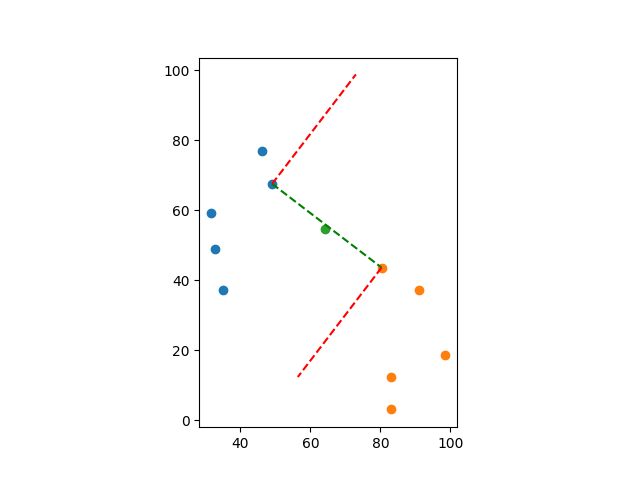
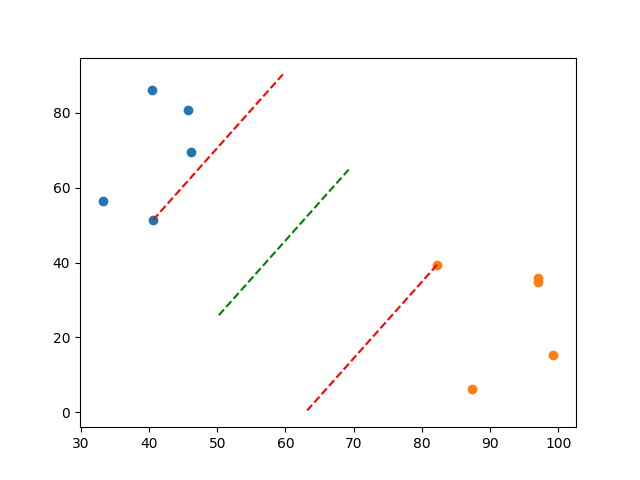
finally it works

diff --git a/_masters_/ml/svm/svmfromscratch.py b/_masters_/ml/svm/svmfromscratch.py
@@ -71,6 +71,8 @@ class Vector:
 class SVMFromScratch:
     def __init__(self):
         self.data = None
+        self.svm1, self.svm2 = None, None
+        self.border = None
 
     def fit(self, data: dict):
         distances = []
@@ -85,39 +87,48 @@ class SVMFromScratch:
         distances.sort(key=lambda it: it['dist'])
         closest_1, closest_2 = distances[0][CLAZZ_1], distances[0][CLAZZ_2]
         middle = find_middle_point(closest_1, closest_2)
-        middle_vect = Vector(closest_1, closest_2)
+        middle_vect1 = Vector(middle, closest_1)
+        middle_vect2 = Vector(middle, closest_2)
 
         svm1 = Vector(closest_1, closest_2)
         svm2 = Vector(closest_2, closest_1)
 
-        most_distant_support_vectors = {
+        # TODO replace with self.
+        most_distant_svms = {
             'vect1': None,
             'vect2': None,
-            'dist': -9999
+            'margin': -9999,
+            'border': (None, None)  # два вектора, образующие границу разделения между support-векторами
         }
 
-        step = 10
-        angle = 0
-        while angle < FULL_DEGREE:
-            angle += step
-            print(f'angle: {angle}')
+        step_degree = 10
+        angle_degree = 0
+        while angle_degree < FULL_DEGREE:
+            angle_degree += step_degree
+            print(f'angle: {angle_degree}')
 
-            svm1.rotate(step)
-            svm2.rotate(step)
-            curr_dist = Vector.dist_between_parallel(svm1, svm2)
-            print(f' dist: {curr_dist}')
+            svm1.rotate(step_degree)
+            svm2.rotate(step_degree)
+            middle_vect1.rotate(step_degree)
+            middle_vect2.rotate(step_degree)
 
-            c1_correct = SVMFromScratch.is_correctly_classified(svm1, data[CLAZZ_1])
-            c2_correct = SVMFromScratch.is_correctly_classified(svm2, data[CLAZZ_2])
-            print(f'c1: {c1_correct}, c2: {c2_correct}')
+            curr_margin = Vector.dist_between_parallel(svm1, svm2)
+            print(f'  dist: {curr_margin}')
 
-            if curr_dist > most_distant_support_vectors['dist'] \
-                    and SVMFromScratch.is_correctly_classified(svm1, data[CLAZZ_1]) \
-                    and SVMFromScratch.is_correctly_classified(svm2, data[CLAZZ_2]):
-                most_distant_support_vectors = {
+            class_1_correctly_classified = SVMFromScratch.is_correctly_classified(svm1, data[CLAZZ_1])
+            class_2_correctly_classified = SVMFromScratch.is_correctly_classified(svm2, data[CLAZZ_2])
+            print(f'  class 1 correct: {class_1_correctly_classified}')
+            print(f'  class 2 correct: {class_2_correctly_classified}')
+
+            # find maximal margin
+            if curr_margin > most_distant_svms['margin'] \
+                    and class_1_correctly_classified \
+                    and class_2_correctly_classified:
+                most_distant_svms = {
                     'vect1': deepcopy(svm1),
                     'vect2': deepcopy(svm2),
-                    'dist': curr_dist
+                    'margin': curr_margin,
+                    'border': (deepcopy(middle_vect1), deepcopy(middle_vect2))
                 }
 
             # clear canvas
@@ -130,24 +141,55 @@ class SVMFromScratch:
             plt.scatter([middle.x], [middle.y])
 
             # draw support vectors
-            plt.plot(middle_vect.xs, middle_vect.ys, 'g--')
             plt.plot(svm1.xs, svm1.ys, 'r--')
             plt.plot(svm2.xs, svm2.ys, 'r--')
 
-            plt.pause(2)
+            # draw border
+            plt.plot(middle_vect1.xs, middle_vect1.ys, 'g--')
+            plt.plot(middle_vect2.xs, middle_vect2.ys, 'g--')
+
+            plt.pause(0.05)
             plt.draw()
 
-        print(most_distant_support_vectors)
-        plt.show()
+        # clear canvas
+        plt.clf()
+        plt.cla()
 
+        # draw clusters
+        plt.scatter(xs(data[CLAZZ_1]), ys(data[CLAZZ_1]))
+        plt.scatter(xs(data[CLAZZ_2]), ys(data[CLAZZ_2]))
+
+        # draw SVMs
+        self.svm1 = most_distant_svms['vect1']
+        plt.plot(self.svm1.xs, self.svm1.ys, 'r--')
+        self.svm2 = most_distant_svms['vect2']
+        plt.plot(self.svm2.xs, self.svm2.ys, 'r--')
+
+        # draw border
+        border1 = most_distant_svms['border'][0]
+        border2 = most_distant_svms['border'][1]
+        self.border = Vector(border1.b, border2.b)
+        plt.plot(self.border.xs, self.border.ys, 'g--')
+
+        plt.savefig('dots.png')
+
+
+    def predict(self, point: Point) -> str:
+        line = self.border
+        signed_val = (line.b.x - line.a.x) * (point.y - line.a.y) - \
+                     (line.b.y - line.a.y) * (point.x - line.a.x)
+        if signed_val >= 0:
+            return CLAZZ_1
+        else:
+            return CLAZZ_2
 
     @staticmethod
     def is_correctly_classified(vect: Vector, points: list) -> bool:
         signs = []
         for p in points:
             # https://stackoverflow.com/a/3461533/4504720
-            sign = (vect.b.x - vect.a.x) * (p.y - vect.a.y) - (vect.b.y - vect.a.y) * (p.x - vect.a.x)
-            signs.append(sign)
+            signed_val = (vect.b.x - vect.a.x) * (p.y - vect.a.y) - (vect.b.y - vect.a.y) * (p.x - vect.a.x)
+            signs.append(signed_val)
         # проверяем что все точки по одну строну от прямой (т.е. либо все > 0, либо все < 0)
         # та точка, через которую проходит опорный вектор дает 0 => ослабляем до >= 0 (или <= 0)
         return all(sign >= 0 for sign in signs) or all(sign <= 0 for sign in signs)
@@ -192,7 +234,7 @@ def main():
     y2 = np.random.normal(center2[1], distance, size=(DATASET_SIZE,))
 
     # convert from numpy into normal points
-    marked_up_data = {
+    labeled_data = {
         CLAZZ_1: [],
         CLAZZ_2: []
     }
@@ -200,24 +242,23 @@ def main():
     for i in range(DATASET_SIZE):
         x = x1[i]
         y = y1[i]
-        marked_up_data[CLAZZ_1].append(Point(x, y))
+        labeled_data[CLAZZ_1].append(Point(x, y))
 
     for i in range(DATASET_SIZE):
         x = x2[i]
         y = y2[i]
-        marked_up_data[CLAZZ_2].append(Point(x, y))
+        labeled_data[CLAZZ_2].append(Point(x, y))
 
+    # fit to labeled data
     svm = SVMFromScratch()
-    svm.fit(marked_up_data)
+    svm.fit(labeled_data)
+
+    # predict new data
+    clazz = svm.predict(Point(70, 40))
+    print(f'new point is labeled as of class "{clazz}"')
+
+    plt.show()
 
 
 if __name__ == '__main__':
     main()
-
-    # v = Vector(Point(2,1), Point(5,7))
-    # print(v.linear_function)
-    # linear1 = {'a': -31.247440394778728, 'b': 9.66091408069402, 'c': 964.2556114111776}
-    # linear2 = {'a': 31.24744039477874, 'b': -9.660914080694027, 'c': -2033.9914035109805}
-    # # assert a1 == a2, b1 == b2
-    # denominator = sqrt(linear1['a'] ** 2 + linear1['b'] ** 2)
-    # print(abs(linear1['c'] + linear2['c']) / denominator)
